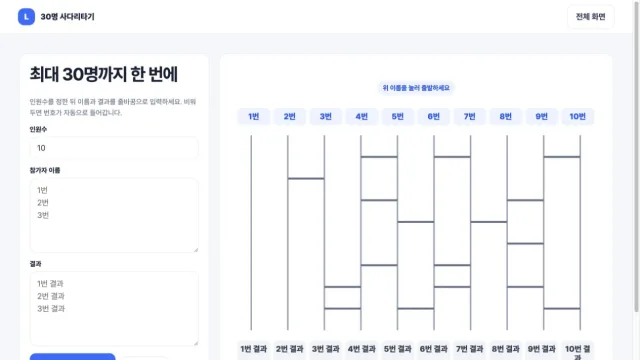
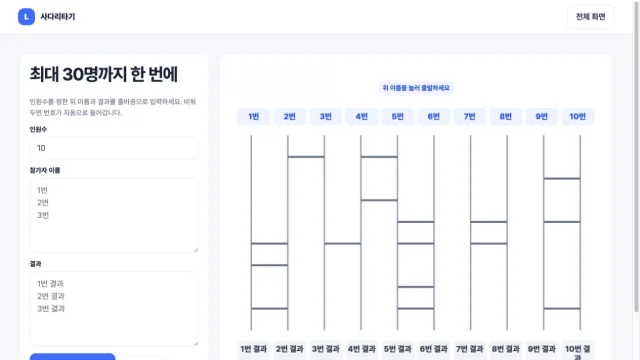
Shorten random draw and ladder titles

diff --git a/projects.js b/projects.js
@@ -97,7 +97,7 @@ window.PROJECTS = [
   },
   {
     id: "random-penalty-roulette",
-    title: "30명 랜덤 뽑기",
+    title: "랜덤뽑기",
     description: "최대 30명까지 번호·이름을 넣고, 뽑힌 항목을 제외하며 이어서 추첨합니다.",
     type: "수업 보조 도구",
     category: "AI·수업 활동",
@@ -121,7 +121,7 @@ window.PROJECTS = [
   },
   {
     id: "classroom-ladder-draw",
-    title: "30명 사다리타기",
+    title: "사다리타기",
     description: "최대 30명의 이름과 결과를 넣고 경로를 따라가며 공정하게 짝·역할을 정합니다.",
     type: "수업 보조 도구",
     category: "AI·수업 활동",